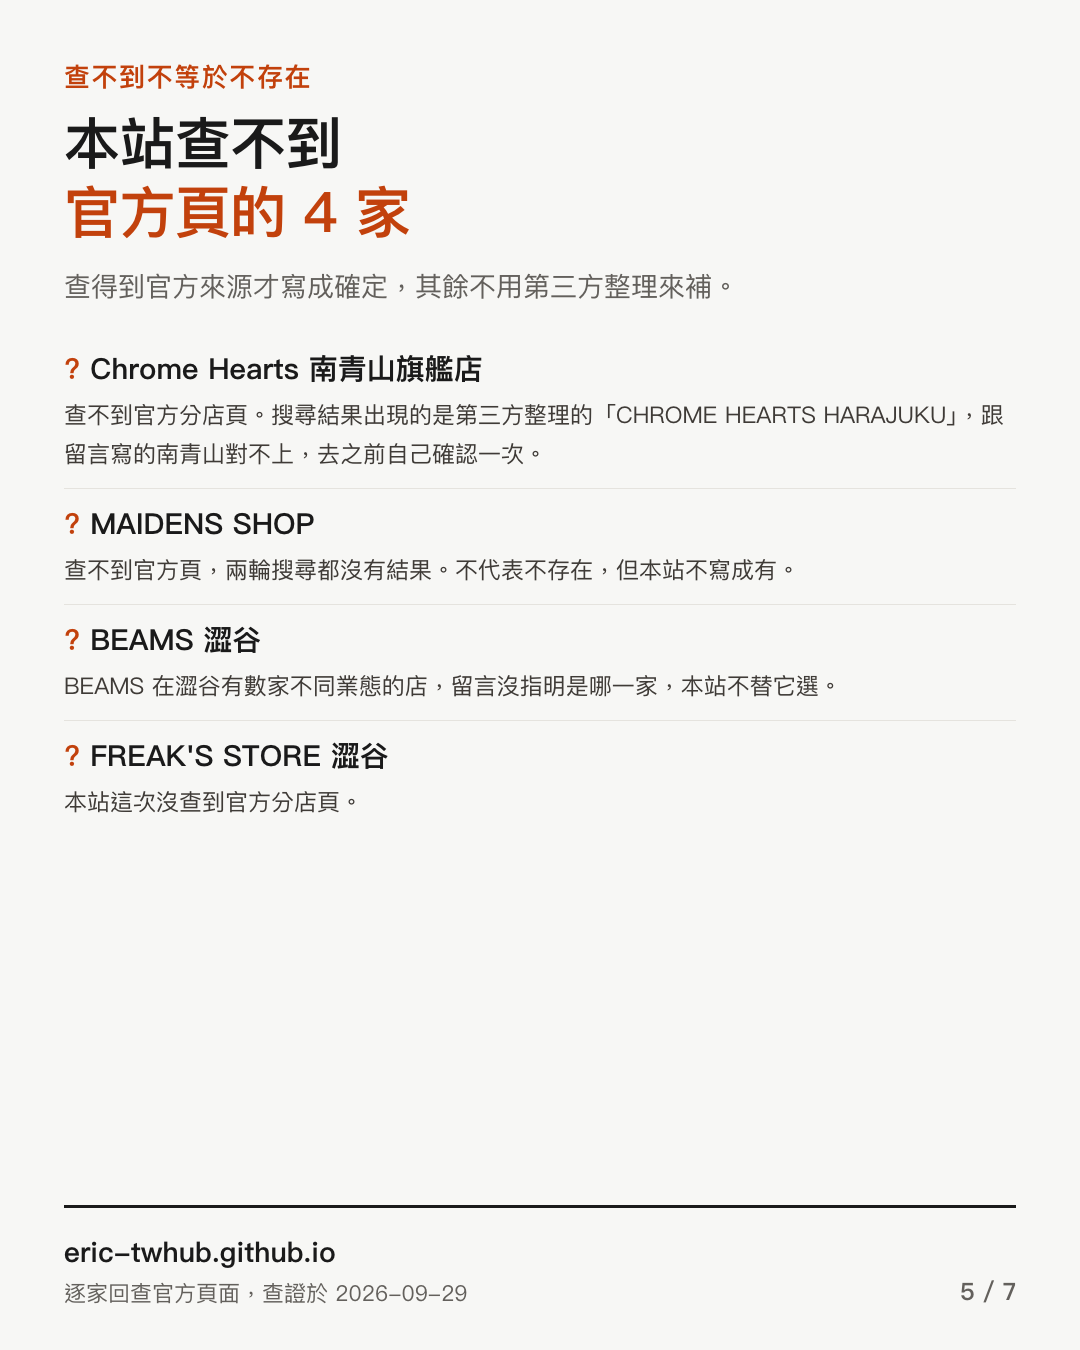
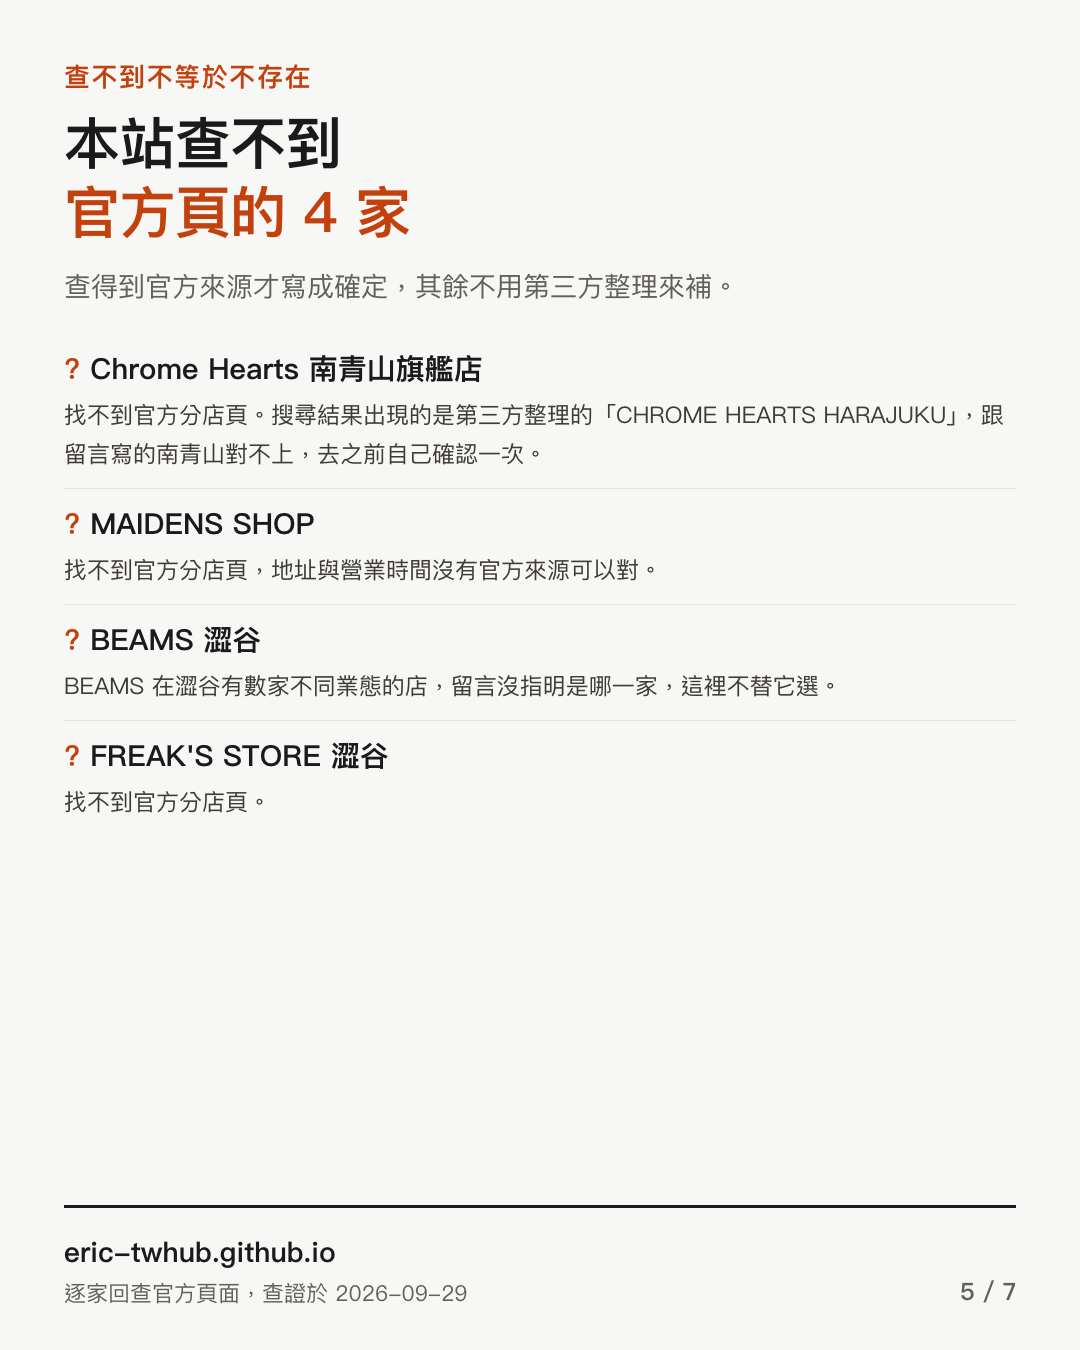
全站再掃一次：把「本站怎麼做」改成「外面是怎樣、你該怎麼辦」
判準是這句在講外面的世界還是在講本站。講外面的留（中國還沒公布、
機位還沒開賣、官網兩頁寫得不一樣），講本站的作業改掉。

這一輪改的：
・機場末班車三處「待查」改成官網為什麼查不到（只給 PDF、沒列在同一頁）
・刷卡保險表格「卡等未確認，不列數字」改成「發卡行沒有公布這張卡的卡等」
・JTTP「本站不替它補」改成「出發前先自己備妥」
・門號收簡訊「本站不替它們下結論」改成「申請前自己跟客服確認」
・63 ANGEL 五處「本站不替它選／本站沒有查證」改成官方沒說明＋讀者該做什麼
・三國連假與請假攻略「本站不推估」改成「還沒公布不等於沒有假」
・潮牌那頁「本站查不到官方頁的 4 家」改成「沒有官方分店頁的 4 家」，
  並補上讀者要做的事：地址與營業時間沒有官方來源可以對，自己確認一次
・早去晚回「取自近期快取紀錄」整句拿掉
・優惠券、Threads 熱搜、東京店家清單的「本站查不到」一併改寫

保留的是講網站對讀者做了什麼的那幾句：不複製 Instagram 圖檔、
移上去之前不會發出請求、其他頁面沒有追蹤元件、聯盟連結揭露、
以及「低分不是樣本不足」那種在說明資料怎麼讀的句子。

diff --git a/gen.py b/gen.py
@@ -4559,10 +4559,11 @@ if SH:
      ('這頁是推薦清單嗎？',
       '不是。這是把 Threads 上一份被分享一百多次的東京潮牌清單，逐家回查官方頁面之後的結果。'
       f'十六家裡有 {len(_sh_fix)} 家的店名、樓層或區域跟留言寫的不一樣，'
-      f'{len(_sh_no)} 家本站查不到官方頁。哪家好逛不是這頁要回答的。'),
-     ('為什麼有幾家寫「查不到」？',
-      '查不到是指本站找不到該分店的官方頁面，不是說那家店不存在。'
-      '本站的作法是查得到官方來源才寫成確定，查不到就寫查不到，不用第三方整理來補。'),
+      f'{len(_sh_no)} 家找不到官方分店頁。哪家好逛不是這頁要回答的。'),
+     ('為什麼有幾家寫「沒有官方分店頁」？',
+      '那是找不到該分店的官方頁面，不代表店不存在。'
+      '地址與營業時間查得到官方來源才寫成確定，其餘不用第三方整理來補，'
+      '所以那幾家要自己確認一次。'),
      ('ballaholic 跟 Kiko Kostadinov 到底在澀谷還是原宿？',
       '兩家的地址都在神宮前，行政區確實是渋谷区，所以留言寫澀谷不算錯。'
       '但要走的是原宿或明治神宮前站，不是澀谷站。'
@@ -4616,9 +4617,9 @@ if SH:
       + f'<h2>對得上的 {len(_sh_ok)} 家</h2>'
       + '<div class="tw"><table><tr><th>店</th><th>地址</th><th>補充</th></tr>'
       + _sh_ok_rows + '</table></div>'
-      + f'<h2>本站查不到官方頁的 {len(_sh_no)} 家</h2>'
-      + '<p class="lede">查不到是指找不到該分店的官方頁面，不是說那家店不存在。'
-        '查得到官方來源才寫成確定，其餘不用第三方整理來補。</p>'
+      + f'<h2>沒有官方分店頁的 {len(_sh_no)} 家</h2>'
+      + '<p class="lede">這幾家找不到官方的分店頁面，不代表店不存在，'
+        '但地址與營業時間沒有官方來源可以對，去之前自己確認一次。</p>'
       + f'<ul class="lede">{_sh_no_rows}</ul>'
       + _sh_cards
       + '<h2>按實際位置重排</h2>'
@@ -4744,7 +4745,7 @@ if os.path.exists('angel63.json'):
       '這題官網自己兩頁寫得不一樣。預約頁寫 6 天前 30%、5 天前至 2 天前 50%、前一天與當天 100%；'
       '特商法頁寫 6 天前 30%、3 天前為止 50%、前一天與當天 100%。'
       '特商法頁另外還寫「刷卡付款申請之後的取消以及未到場不退款」。'
-      '中間那一段對不起來，本站不替它選一個版本，要改期就直接打電話問。'),
+      '中間那一段對不起來，這裡不挑一個當正確答案，要改期就直接打電話問。'),
      ('店裡可以拍照嗎？',
       '官網公告禁止的是「低角度」的拍照與錄影，不是全面禁止，但店內另有公告的禁止事項與攝影指引。'
       '不聽從店員勸導可能被請離場，而且餐飲費不退，惡質者永久謝絕入店。'),
@@ -5567,11 +5568,11 @@ if HOL:
       '要注意那是今天這批資料的快照，樣本不大，明天重算數字會變。'
       '把它當成量級參考，不要當成精確預測。'),
      ('日本的補假會算進去嗎？',
-      '會。日本的振替休日在內閣府的公開假日資料裡就列為休日，本站一併計入。'
+      '會。日本的振替休日在內閣府的公開假日資料裡就列為休日，這裡一併計入。'
       '台灣的補班日與中國的調休上班日也都扣掉了，不會把要上班的週六算成假日。'),
      ('為什麼 2027 年沒有中國的資料？',
-      '中國的節假日由國務院逐年公布，2027 年的還沒發布。'
-      '沒有公布的本站不推估，所以 2027 年的中國那一欄是空的。'),
+      '中國的節假日由國務院逐年公布，2027 年的還沒發布，'
+      '所以 2027 年的中國那一欄是空的。還沒公布不等於沒有假。'),
     ]
     hc_html = ''.join('<details class="faq"><summary>' + html.escape(q) + '</summary><div>'
                       + html.escape(a) + '</div></details>' for q, a in hc_faq)
@@ -6213,10 +6214,10 @@ if HOL:
         ]
         if not cn_open:
             faq.append(
-             (f'為什麼 {ys} 年的中國欄位都是「未公布」？',
+             (f'為什麼 {ys} 年的中國那一欄都是「未公布」？',
               '中國的節假日由國務院辦公廳逐年公布，通常在前一年底才發布，'
-              f'{ys} 年的安排目前還沒有。本站不推估，也不會把「還沒公布」'
-              '畫成「沒有假」，那是兩回事。公布之後這一頁會自動更新。'))
+              f'{ys} 年的安排目前還沒有。還沒公布不等於沒有假，那是兩回事，'
+              '所以那一欄標「未公布」而不是「無」。公布之後這一頁會更新。'))
         else:
             faq.append(
              ('中國的假期會影響台灣飛日本的機票嗎？',
@@ -6273,10 +6274,10 @@ if HOL:
              + '<div class="tw"><table><tr><th>台灣連假</th><th>天數</th>'
                '<th>🇯🇵 日本同期</th><th>🇨🇳 中國同期</th><th>日本當地活動</th></tr>'
              + rows + '</table></div>'
-             + ('<p class="disc">中國欄位一律標「未公布」，'
-                '是因為中國的節假日由國務院逐年公布，'
-                f'{ys} 年的安排還沒發布。本站不推估，'
-                '也不會把「還沒公布」畫成「沒有假」。</p>' if not cn_open
+             + ('<p class="disc">中國那一欄一律標「未公布」，'
+                '因為中國的節假日由國務院逐年公布，'
+                f'{ys} 年的安排還沒發布。還沒公布不等於沒有假，'
+                '所以不寫成「無」。</p>' if not cn_open
                 else '<p class="disc">「無」是指那幾天該國沒有連續三天以上的假期，'
                      '不是指完全沒有放假日。單純的週六日不算，'
                      '那不會造成額外的需求高峰。</p>')
@@ -6391,7 +6392,7 @@ if os.path.exists('card-insurance.json'):
         sub = '<small>' + html.escape(r['bank']) + '</small>'
         if r.get('unknown'):
             _ci_rows += ('<tr><td class="nm"><b>' + nm + '</b><br>' + sub + '</td>'
-                         '<td colspan="6" class="dimcell">卡等未確認，不列數字</td></tr>')
+                         '<td colspan="6" class="dimcell">發卡行沒有公布這張卡的卡等</td></tr>')
             continue
         _ci_rows += ('<tr><td class="nm"><b>' + nm + '</b><br>' + sub + '</td>'
                      + _ci_med(r['傷害醫療'])
@@ -8696,7 +8697,7 @@ if _GT:
       + '<div class="tw"><table><thead><tr><th>航線</th><th>價格</th>'
         '<th>去程</th><th>回程</th><th>　</th></tr></thead><tbody>'
       + _rows + '</tbody></table></div>'
-      + '<p class="disc">價格為單人來回含稅，是本站近期抓到的紀錄，實際票價請點擊查詢。</p>'
+      + '<p class="disc">價格為單人來回含稅，實際票價請點擊查詢。</p>'
       + search_form('查你自己的日期', '選好日期就能看到當天實際可訂的班次與時間。', 'TPE', 'TYO')
       + '<h2>為什麼值得多付這筆</h2><div class="tldr"><ul>'
         '<li><b>第一天不再報廢。</b>傍晚 17:15 出發的班次，落地已近午夜，'
